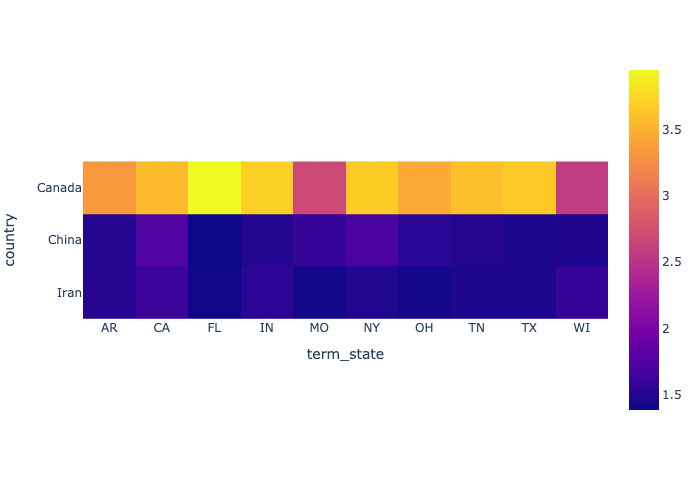
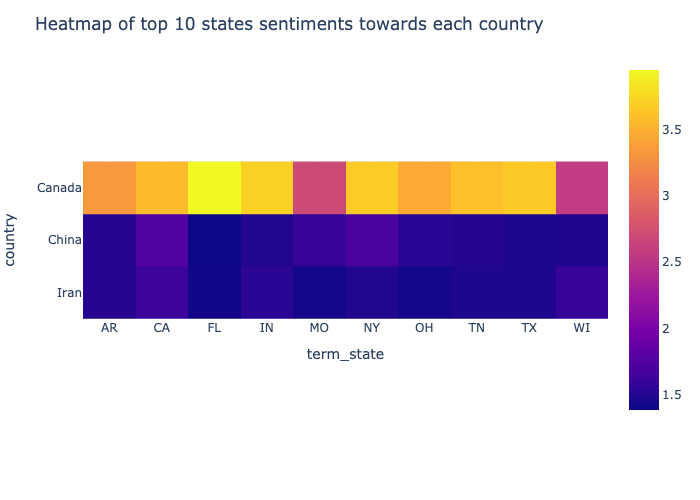
remade plots & added titles

Changed region(s): [[0.03, 0.03, 0.78, 0.06]]

diff --git a/src/viz/visualization.py b/src/viz/visualization.py
@@ -33,6 +33,8 @@ def make_visuals(inpath):
     tt_pv = pd.pivot_table(top_ten_df, index = "country", columns = "term_state", values = "score", aggfunc = np.mean)
     fig_2 = px.imshow(tt_pv)
 
+    fig_2.update_layout(title_text = "Heatmap of top 10 states sentiments towards each country")
+
     # Visualization 3: Scatter plot
     scores = df[df["score"] <= 5.0]
     scores_by_age = pd.DataFrame(scores.groupby(["score", "country"])["age_when_posted"].mean()).reset_index()
@@ -42,6 +44,8 @@ def make_visuals(inpath):
                                   line=dict(width=2,
                                             color='DarkSlateGrey')),
                       selector=dict(mode='markers'))
+
+    fig_3.update_layout(title_text = "Average age of politician vs. Sentiment score towards each country")
 
     outpath = "data/visuals/"
     io.write_image(fig_1, outpath + 'fig1.png')
